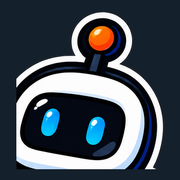
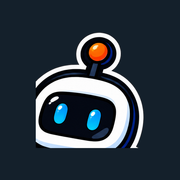
Fix top nav About link and give logomark more breathing room
- Hero pill nav "About" now goes to /about instead of scrolling in-page
- Re-crop header/favicon logomark with more padding so it reads
  clearly at small size instead of feeling cramped

diff --git a/src/components/Hero.tsx b/src/components/Hero.tsx
@@ -6,7 +6,7 @@ import { SelectionFrame } from "./FigmaChrome";
 
 const NAV = [
   { label: "Home", href: "#top" },
-  { label: "About", href: "#about" },
+  { label: "About", href: "/about" },
   { label: "Process", href: "#process" },
   { label: "Services", href: "#services" },
   { label: "Work", href: "#work" },

diff --git a/src/components/icons.tsx b/src/components/icons.tsx
@@ -5,8 +5,8 @@ export function Logomark({ className }: { className?: string }) {
     <Image
       src="/logo-mark.png"
       alt="OH MY DEV"
-      width={128}
-      height={128}
+      width={256}
+      height={256}
       className={`${className ?? ""} object-contain`}
       priority
     />
